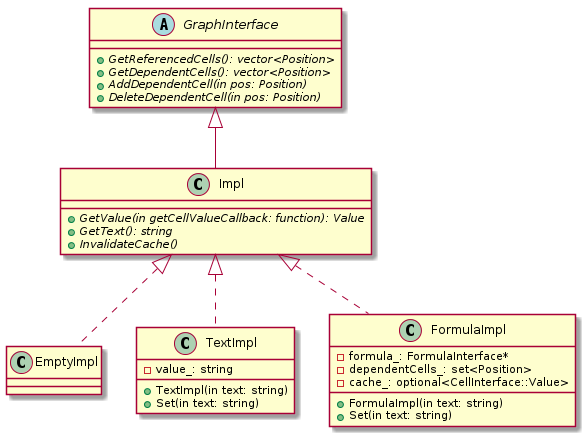
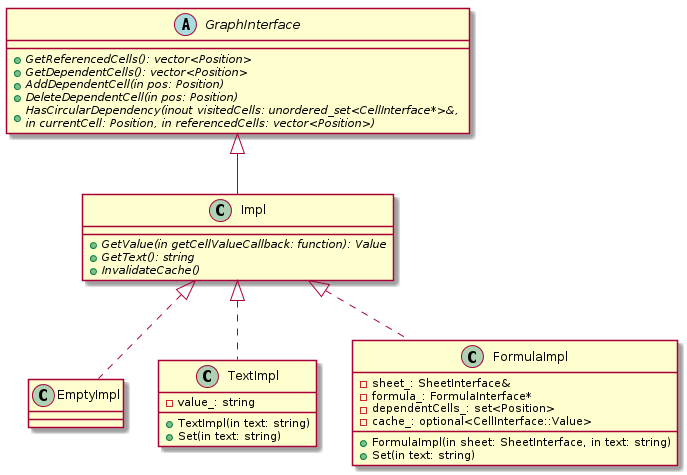
Move HasCircularDependency to GraphInterface

diff --git a/headers/cell.h b/headers/cell.h
@@ -10,13 +10,24 @@ class Sheet;
 
 class GraphInterface {
  public:
+  // Используется Position, т.к. сказано, что нельзя менять CellInterface,
+  // поэтому нет смысла использовать указатели на ячейки
   virtual std::vector<Position> GetReferencedCells() const = 0;
   virtual std::vector<Position> GetDependentCells() const = 0;
+
+  // Если ячейка не создана, создаем EmptyImpl и в нее добавляем dependent cell
   virtual void AddDependentCell(const Position pos) = 0;
   virtual void DeleteDependentCell(const Position pos) = 0;
+
+  // https://neerc.ifmo.ru/wiki/index.php?title=%D0%98%D1%81%D0%BF%D0%BE%D0%BB%D1%8C%D0%B7%D0%BE%D0%B2%D0%B0%D0%BD%D0%B8%D0%B5_%D0%BE%D0%B1%D1%85%D0%BE%D0%B4%D0%B0_%D0%B2_%D0%B3%D0%BB%D1%83%D0%B1%D0%B8%D0%BD%D1%83_%D0%B4%D0%BB%D1%8F_%D0%BF%D0%BE%D0%B8%D1%81%D0%BA%D0%B0_%D1%86%D0%B8%D0%BA%D0%BB%D0%B0
+  // https://neerc.ifmo.ru/wiki/index.php?title=%D0%9E%D0%B1%D1%85%D0%BE%D0%B4_%D0%B2_%D0%B3%D0%BB%D1%83%D0%B1%D0%B8%D0%BD%D1%83,_%D1%86%D0%B2%D0%B5%D1%82%D0%B0_%D0%B2%D0%B5%D1%80%D1%88%D0%B8%D0%BD
+  virtual bool HasCircularDependency(
+      std::unordered_set<CellInterface*>& visitedCells,
+      const Position currentCell,
+      const std::vector<Position>& referencedCells) const = 0;
 };
 
-class Cell : public CellInterface, public GraphInterface {
+class Cell : public CellInterface {
  public:
   Cell(Sheet& sheet);
   ~Cell();
@@ -40,24 +51,9 @@ class Cell : public CellInterface, public GraphInterface {
   Value GetValue() const override;
   std::string GetText() const override;
 
-  std::vector<Position> GetReferencedCells() const override;
-  // Используется Position, т.к. сказано, что нельзя менять CellInterface,
-  // поэтому нет смысла использовать указатели на ячейки
-  std::vector<Position> GetDependentCells() const override;
-  // Если ячейка не создана, создаем EmptyImpl и в нее добавляем dependent cell
-  void AddDependentCell(const Position pos) override;
-  void DeleteDependentCell(const Position pos) override;
-
   void InvalidateCache() const;
 
  private:
-  // https://neerc.ifmo.ru/wiki/index.php?title=%D0%98%D1%81%D0%BF%D0%BE%D0%BB%D1%8C%D0%B7%D0%BE%D0%B2%D0%B0%D0%BD%D0%B8%D0%B5_%D0%BE%D0%B1%D1%85%D0%BE%D0%B4%D0%B0_%D0%B2_%D0%B3%D0%BB%D1%83%D0%B1%D0%B8%D0%BD%D1%83_%D0%B4%D0%BB%D1%8F_%D0%BF%D0%BE%D0%B8%D1%81%D0%BA%D0%B0_%D1%86%D0%B8%D0%BA%D0%BB%D0%B0
-  // https://neerc.ifmo.ru/wiki/index.php?title=%D0%9E%D0%B1%D1%85%D0%BE%D0%B4_%D0%B2_%D0%B3%D0%BB%D1%83%D0%B1%D0%B8%D0%BD%D1%83,_%D1%86%D0%B2%D0%B5%D1%82%D0%B0_%D0%B2%D0%B5%D1%80%D1%88%D0%B8%D0%BD
-  bool HasCircularDependency(
-      std::unordered_set<CellInterface*>& visitedCells,
-      const Position currentCell,
-      const std::vector<Position>& referencedCells) const;
-
  private:
   class Impl;
   class EmptyImpl;
@@ -81,7 +77,7 @@ class Cell::Impl : public GraphInterface {
 
 class Cell::FormulaImpl : public Impl {
  public:
-  FormulaImpl(const std::string& text);
+  FormulaImpl(const SheetInterface& sheet, const std::string& text);
 
   void Set(const std::string& text);
 
@@ -104,6 +100,7 @@ class Cell::FormulaImpl : public Impl {
   void InvalidateCache() const override;
 
  private:
+  SheetInterface& sheet_;
   std::unique_ptr<FormulaInterface> formula_;
   std::unordered_set<Position> dependentCells_;
   mutable std::optional<CellInterface::Value> cache_;
